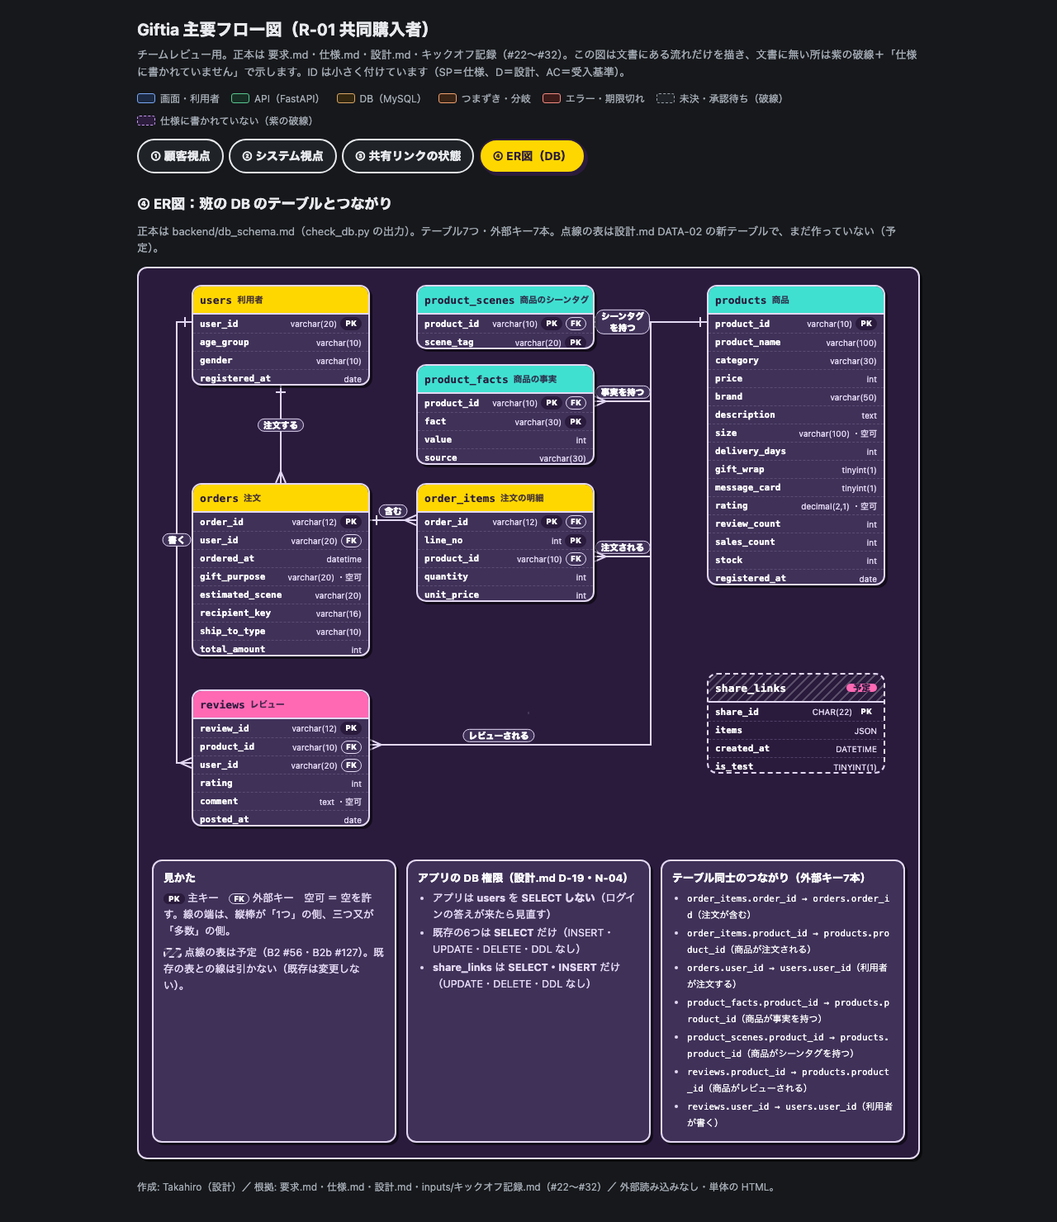
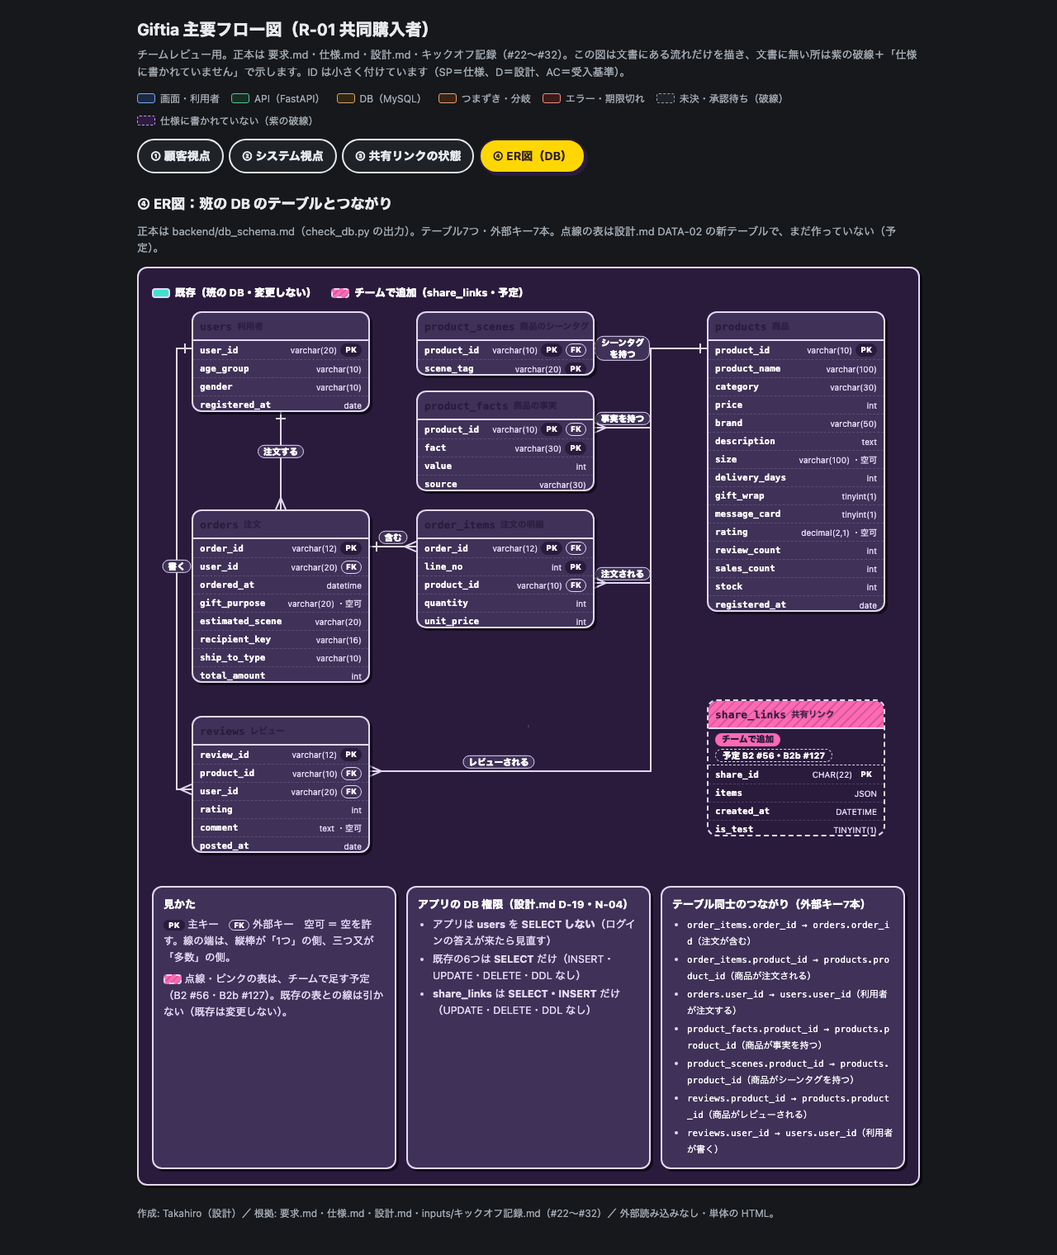
feat: ER図で「チームで追加」を区別し、ハブの紙芝居の行を消す

Changed region(s): [[0.125, 0.0, 0.875, 0.8081], [0.125, 0.5284, 0.875, 0.9946], [0.4062, 0.6838, 0.5938, 0.8081]]

diff --git a/docs/mock/diagrams/giftia-ui-renewal/flows.html b/docs/mock/diagrams/giftia-ui-renewal/flows.html
@@ -98,11 +98,11 @@ th{background:var(--card)}
 .tb h4{margin:0;height:34px;display:flex;align-items:center;gap:6px;padding:0 8px;border-bottom:2px solid var(--ew-line);color:#2A1B3D;font-size:13px;line-height:1}
 .tb h4 b{font-family:ui-monospace,Consolas,monospace;font-size:13px}
 .tb h4 small{font-size:10.5px;font-weight:700;color:#2A1B3D;opacity:.85;white-space:nowrap}
-.tb.g1 h4{background:var(--m1)}.tb.g2 h4{background:var(--m2)}.tb.g3 h4{background:var(--m3)}
+
 .tb.gp{border-style:dashed;background:transparent;box-shadow:none}
-.tb.gp h4{background:repeating-linear-gradient(135deg,transparent 0 6px,var(--ew-stripe) 6px 8px);color:var(--ew-ink)}
-.tb.gp h4 small{color:var(--ew-ink)}
-.tb .st{margin-left:auto;font-size:10.5px;font-weight:800;padding:0 8px;border-radius:999px;background:var(--m3);color:#2A1B3D}
+.tb.gp h4{background:repeating-linear-gradient(135deg,transparent 0 6px,rgba(42,27,61,.2) 6px 8px),var(--m3);color:#2A1B3D}
+.tb.gp .band{display:flex;flex-direction:column;align-items:flex-start;gap:3px;height:44px;padding:5px 8px;border-bottom:1.5px dashed var(--ew-line)}
+.tb .st{font-size:10.5px;font-weight:800;line-height:1.5;padding:0 8px;border-radius:999px;background:var(--m3);color:#2A1B3D;white-space:nowrap}.tb .st.st2{background:transparent;border:1.5px dashed var(--ew-line);color:var(--ew-ink);line-height:1.35}
 .tb ul{list-style:none;margin:0;padding:0}
 .tb li{display:flex;align-items:center;gap:4px;height:22px;padding:0 8px;font-size:11px;line-height:1;border-top:1px dashed rgba(127,110,150,.45)}
 .tb li:first-child{border-top:0}
@@ -119,7 +119,11 @@ th{background:var(--card)}
 .erc ul{margin:0;padding-left:18px;color:var(--ew-sub)}
 .erc li{margin:2px 0}
 .erc ul code{font-family:ui-monospace,Consolas,monospace;font-size:11px;color:var(--ew-ink);word-break:break-all}
-.sw2{display:inline-block;width:22px;height:12px;border:2px dashed var(--ew-line);border-radius:4px;vertical-align:-2px;background:repeating-linear-gradient(135deg,transparent 0 4px,var(--ew-stripe) 4px 6px)}
+.erlg{display:flex;flex-wrap:wrap;gap:6px 18px;margin:0 6px 12px;font-size:12.5px;font-weight:800}
+.erlg span{display:inline-flex;align-items:center;gap:6px}
+.sw2.ex{border:2px solid var(--ew-line);background:var(--m2)}
+.sw2:not(.ex){background:repeating-linear-gradient(135deg,transparent 0 4px,rgba(42,27,61,.2) 4px 6px),var(--m3)}
+.sw2{display:inline-block;width:22px;height:12px;border:2px dashed var(--ew-line);border-radius:4px;vertical-align:-2px}
 @media (max-width:959px){
   .erg{width:auto;height:auto;display:flex;flex-direction:column;gap:14px}
   .erl,.pl{display:none}
@@ -392,11 +396,12 @@ th{background:var(--card)}
   <h2>④ ER図：班の DB のテーブルとつながり</h2>
   <p class="lead">正本は backend/db_schema.md（check_db.py の出力）。テーブル7つ・外部キー7本。点線の表は設計.md DATA-02 の新テーブルで、まだ作っていない（予定）。</p>
   <div class="erwrap">
-    <div class="erg"><svg class="erl" width="880" height="680" viewBox="0 0 880 680" aria-hidden="true"><defs><marker id="erone" markerUnits="userSpaceOnUse" markerWidth="14" markerHeight="14" refX="0" refY="7" orient="auto"><path class="ml" d="M8 1V13"/></marker><marker id="ercrow" markerUnits="userSpaceOnUse" markerWidth="14" markerHeight="14" refX="14" refY="7" orient="auto"><path class="ml" d="M0 7L14 1M0 7H14M0 7L14 13"/></marker></defs><path class="ln" d="M140 122 V240" marker-start="url(#erone)" marker-end="url(#ercrow)"/><path class="ln" d="M248 285 H304" marker-start="url(#erone)" marker-end="url(#ercrow)"/><path class="ln" d="M656 45 H588 V329 H520" marker-start="url(#erone)" marker-end="url(#ercrow)"/><path class="ln" d="M656 45 H520" marker-start="url(#erone)" marker-end="url(#ercrow)"/><path class="ln" d="M656 45 H588 V141 H520" marker-start="url(#erone)" marker-end="url(#ercrow)"/><path class="ln" d="M656 45 H588 V557 H248" marker-start="url(#erone)" marker-end="url(#ercrow)"/><path class="ln" d="M32 45 H14 V579 H32" marker-start="url(#erone)" marker-end="url(#ercrow)"/></svg><span class="pl" style="left:140px;top:181px">注文する</span><span class="pl" style="left:276px;top:285px">含む</span><span class="pl" style="left:554px;top:329px">注文される</span><span class="pl" style="left:554px;top:45px">シーンタグ<br>を持つ</span><span class="pl" style="left:554px;top:141px">事実を持つ</span><span class="pl" style="left:404px;top:557px">レビューされる</span><span class="pl" style="left:14px;top:320px">書く</span><div class="tb g1" style="left:32px;top:0px;height:122px"><h4><b>users</b><small>利用者</small></h4><ul><li><code>user_id</code><i>varchar(20)</i><em class="k pk">PK</em></li><li><code>age_group</code><i>varchar(10)</i></li><li><code>gender</code><i>varchar(10)</i></li><li><code>registered_at</code><i>date</i></li></ul></div><div class="tb g1" style="left:32px;top:240px;height:210px"><h4><b>orders</b><small>注文</small></h4><ul><li><code>order_id</code><i>varchar(12)</i><em class="k pk">PK</em></li><li><code>user_id</code><i>varchar(20)</i><em class="k fk">FK</em></li><li><code>ordered_at</code><i>datetime</i></li><li><code>gift_purpose</code><i>varchar(20) ・空可</i></li><li><code>estimated_scene</code><i>varchar(20)</i></li><li><code>recipient_key</code><i>varchar(16)</i></li><li><code>ship_to_type</code><i>varchar(10)</i></li><li><code>total_amount</code><i>int</i></li></ul><p class="fkm">FK: orders.user_id → users.user_id</p></div><div class="tb g1" style="left:304px;top:240px;height:144px"><h4><b>order_items</b><small>注文の明細</small></h4><ul><li><code>order_id</code><i>varchar(12)</i><em class="k pk">PK</em><em class="k fk">FK</em></li><li><code>line_no</code><i>int</i><em class="k pk">PK</em></li><li><code>product_id</code><i>varchar(10)</i><em class="k fk">FK</em></li><li><code>quantity</code><i>int</i></li><li><code>unit_price</code><i>int</i></li></ul><p class="fkm">FK: order_items.order_id → orders.order_id ／ order_items.product_id → products.product_id</p></div><div class="tb g2" style="left:656px;top:0px;height:364px"><h4><b>products</b><small>商品</small></h4><ul><li><code>product_id</code><i>varchar(10)</i><em class="k pk">PK</em></li><li><code>product_name</code><i>varchar(100)</i></li><li><code>category</code><i>varchar(30)</i></li><li><code>price</code><i>int</i></li><li><code>brand</code><i>varchar(50)</i></li><li><code>description</code><i>text</i></li><li><code>size</code><i>varchar(100) ・空可</i></li><li><code>delivery_days</code><i>int</i></li><li><code>gift_wrap</code><i>tinyint(1)</i></li><li><code>message_card</code><i>tinyint(1)</i></li><li><code>rating</code><i>decimal(2,1) ・空可</i></li><li><code>review_count</code><i>int</i></li><li><code>sales_count</code><i>int</i></li><li><code>stock</code><i>int</i></li><li><code>registered_at</code><i>date</i></li></ul></div><div class="tb g2" style="left:304px;top:0px;height:78px"><h4><b>product_scenes</b><small>商品のシーンタグ</small></h4><ul><li><code>product_id</code><i>varchar(10)</i><em class="k pk">PK</em><em class="k fk">FK</em></li><li><code>scene_tag</code><i>varchar(20)</i><em class="k pk">PK</em></li></ul><p class="fkm">FK: product_scenes.product_id → products.product_id</p></div><div class="tb g2" style="left:304px;top:96px;height:122px"><h4><b>product_facts</b><small>商品の事実</small></h4><ul><li><code>product_id</code><i>varchar(10)</i><em class="k pk">PK</em><em class="k fk">FK</em></li><li><code>fact</code><i>varchar(30)</i><em class="k pk">PK</em></li><li><code>value</code><i>int</i></li><li><code>source</code><i>varchar(30)</i></li></ul><p class="fkm">FK: product_facts.product_id → products.product_id</p></div><div class="tb g3" style="left:32px;top:490px;height:166px"><h4><b>reviews</b><small>レビュー</small></h4><ul><li><code>review_id</code><i>varchar(12)</i><em class="k pk">PK</em></li><li><code>product_id</code><i>varchar(10)</i><em class="k fk">FK</em></li><li><code>user_id</code><i>varchar(20)</i><em class="k fk">FK</em></li><li><code>rating</code><i>int</i></li><li><code>comment</code><i>text ・空可</i></li><li><code>posted_at</code><i>date</i></li></ul><p class="fkm">FK: reviews.product_id → products.product_id ／ reviews.user_id → users.user_id</p></div><div class="tb gp" style="left:656px;top:470px;height:122px"><h4><b>share_links</b><span class="st">予定</span></h4><ul><li><code>share_id</code><i>CHAR(22)</i><em class="k pk">PK</em></li><li><code>items</code><i>JSON</i></li><li><code>created_at</code><i>DATETIME</i></li><li><code>is_test</code><i>TINYINT(1)</i></li></ul><p class="fkm">予定の表。既存の表との線は引かない（既存は変更しない）。</p></div></div>
+    <div class="erlg" aria-label="凡例"><span><i class="sw2 ex"></i>既存（班の DB・変更しない）</span><span><i class="sw2"></i>チームで追加（share_links・予定）</span></div>
+    <div class="erg"><svg class="erl" width="880" height="680" viewBox="0 0 880 680" aria-hidden="true"><defs><marker id="erone" markerUnits="userSpaceOnUse" markerWidth="14" markerHeight="14" refX="0" refY="7" orient="auto"><path class="ml" d="M8 1V13"/></marker><marker id="ercrow" markerUnits="userSpaceOnUse" markerWidth="14" markerHeight="14" refX="14" refY="7" orient="auto"><path class="ml" d="M0 7L14 1M0 7H14M0 7L14 13"/></marker></defs><path class="ln" d="M140 122 V240" marker-start="url(#erone)" marker-end="url(#ercrow)"/><path class="ln" d="M248 285 H304" marker-start="url(#erone)" marker-end="url(#ercrow)"/><path class="ln" d="M656 45 H588 V329 H520" marker-start="url(#erone)" marker-end="url(#ercrow)"/><path class="ln" d="M656 45 H520" marker-start="url(#erone)" marker-end="url(#ercrow)"/><path class="ln" d="M656 45 H588 V141 H520" marker-start="url(#erone)" marker-end="url(#ercrow)"/><path class="ln" d="M656 45 H588 V557 H248" marker-start="url(#erone)" marker-end="url(#ercrow)"/><path class="ln" d="M32 45 H14 V579 H32" marker-start="url(#erone)" marker-end="url(#ercrow)"/></svg><span class="pl" style="left:140px;top:181px">注文する</span><span class="pl" style="left:276px;top:285px">含む</span><span class="pl" style="left:554px;top:329px">注文される</span><span class="pl" style="left:554px;top:45px">シーンタグ<br>を持つ</span><span class="pl" style="left:554px;top:141px">事実を持つ</span><span class="pl" style="left:404px;top:557px">レビューされる</span><span class="pl" style="left:14px;top:320px">書く</span><div class="tb g1" style="left:32px;top:0px;height:122px"><h4><b>users</b><small>利用者</small></h4><ul><li><code>user_id</code><i>varchar(20)</i><em class="k pk">PK</em></li><li><code>age_group</code><i>varchar(10)</i></li><li><code>gender</code><i>varchar(10)</i></li><li><code>registered_at</code><i>date</i></li></ul></div><div class="tb g1" style="left:32px;top:240px;height:210px"><h4><b>orders</b><small>注文</small></h4><ul><li><code>order_id</code><i>varchar(12)</i><em class="k pk">PK</em></li><li><code>user_id</code><i>varchar(20)</i><em class="k fk">FK</em></li><li><code>ordered_at</code><i>datetime</i></li><li><code>gift_purpose</code><i>varchar(20) ・空可</i></li><li><code>estimated_scene</code><i>varchar(20)</i></li><li><code>recipient_key</code><i>varchar(16)</i></li><li><code>ship_to_type</code><i>varchar(10)</i></li><li><code>total_amount</code><i>int</i></li></ul><p class="fkm">FK: orders.user_id → users.user_id</p></div><div class="tb g1" style="left:304px;top:240px;height:144px"><h4><b>order_items</b><small>注文の明細</small></h4><ul><li><code>order_id</code><i>varchar(12)</i><em class="k pk">PK</em><em class="k fk">FK</em></li><li><code>line_no</code><i>int</i><em class="k pk">PK</em></li><li><code>product_id</code><i>varchar(10)</i><em class="k fk">FK</em></li><li><code>quantity</code><i>int</i></li><li><code>unit_price</code><i>int</i></li></ul><p class="fkm">FK: order_items.order_id → orders.order_id ／ order_items.product_id → products.product_id</p></div><div class="tb g2" style="left:656px;top:0px;height:364px"><h4><b>products</b><small>商品</small></h4><ul><li><code>product_id</code><i>varchar(10)</i><em class="k pk">PK</em></li><li><code>product_name</code><i>varchar(100)</i></li><li><code>category</code><i>varchar(30)</i></li><li><code>price</code><i>int</i></li><li><code>brand</code><i>varchar(50)</i></li><li><code>description</code><i>text</i></li><li><code>size</code><i>varchar(100) ・空可</i></li><li><code>delivery_days</code><i>int</i></li><li><code>gift_wrap</code><i>tinyint(1)</i></li><li><code>message_card</code><i>tinyint(1)</i></li><li><code>rating</code><i>decimal(2,1) ・空可</i></li><li><code>review_count</code><i>int</i></li><li><code>sales_count</code><i>int</i></li><li><code>stock</code><i>int</i></li><li><code>registered_at</code><i>date</i></li></ul></div><div class="tb g2" style="left:304px;top:0px;height:78px"><h4><b>product_scenes</b><small>商品のシーンタグ</small></h4><ul><li><code>product_id</code><i>varchar(10)</i><em class="k pk">PK</em><em class="k fk">FK</em></li><li><code>scene_tag</code><i>varchar(20)</i><em class="k pk">PK</em></li></ul><p class="fkm">FK: product_scenes.product_id → products.product_id</p></div><div class="tb g2" style="left:304px;top:96px;height:122px"><h4><b>product_facts</b><small>商品の事実</small></h4><ul><li><code>product_id</code><i>varchar(10)</i><em class="k pk">PK</em><em class="k fk">FK</em></li><li><code>fact</code><i>varchar(30)</i><em class="k pk">PK</em></li><li><code>value</code><i>int</i></li><li><code>source</code><i>varchar(30)</i></li></ul><p class="fkm">FK: product_facts.product_id → products.product_id</p></div><div class="tb g3" style="left:32px;top:490px;height:166px"><h4><b>reviews</b><small>レビュー</small></h4><ul><li><code>review_id</code><i>varchar(12)</i><em class="k pk">PK</em></li><li><code>product_id</code><i>varchar(10)</i><em class="k fk">FK</em></li><li><code>user_id</code><i>varchar(20)</i><em class="k fk">FK</em></li><li><code>rating</code><i>int</i></li><li><code>comment</code><i>text ・空可</i></li><li><code>posted_at</code><i>date</i></li></ul><p class="fkm">FK: reviews.product_id → products.product_id ／ reviews.user_id → users.user_id</p></div><div class="tb gp" style="left:656px;top:470px;height:166px"><h4><b>share_links</b><small>共有リンク</small></h4><div class="band"><span class="st">チームで追加</span><span class="st st2">予定 B2 #56・B2b #127</span></div><ul><li><code>share_id</code><i>CHAR(22)</i><em class="k pk">PK</em></li><li><code>items</code><i>JSON</i></li><li><code>created_at</code><i>DATETIME</i></li><li><code>is_test</code><i>TINYINT(1)</i></li></ul><p class="fkm">予定の表。既存の表との線は引かない（既存は変更しない）。</p></div></div>
     <div class="erk">
       <div class="erc"><h5>見かた</h5>
         <p><em class="k pk">PK</em> 主キー　<em class="k fk">FK</em> 外部キー　空可 ＝ 空を許す。線の端は、縦棒が「1つ」の側、三つ又が「多数」の側。</p>
-        <p><span class="sw2"></span> 点線の表は予定（B2 #56・B2b #127）。既存の表との線は引かない（既存は変更しない）。</p>
+        <p><span class="sw2"></span> 点線・ピンクの表は、チームで足す予定（B2 #56・B2b #127）。既存の表との線は引かない（既存は変更しない）。</p>
       </div>
       <div class="erc"><h5>アプリの DB 権限（設計.md D-19・N-04）</h5>
         <ul><li>アプリは <b>users</b> を <b>SELECT しない</b>（ログインの答えが来たら見直す）</li>

diff --git a/docs/hub.html b/docs/hub.html
@@ -115,7 +115,7 @@ a:not(.btn):hover,a:not(.btn):focus-visible{text-decoration-thickness:3px}
 <ol class="stages"><li class="stg"><b>STAGE 1</b><small>W1</small></li><li class="stg"><b>STAGE 2</b><small>W2</small></li><li class="stg"><b>STAGE 3</b><small>W3</small></li><li class="stg"><b>STAGE 4</b><small>W4</small></li></ol>
 </div></header>
 <main class="wrap">
-<section class="sec "><h2><span aria-hidden="true">📅</span>毎日<span class="mk" aria-hidden="true"><i></i><i></i><i></i></span></h2><div class="grid"><div class="card pl-card"><h3>開発の全体像</h3><p class="pl">🎁 予算とシーンで候補を出し、仲間に共有リンクで送る</p><ol class="mp" aria-label="段"><li>5文書</li><li>実装①</li><li>実装②</li><li>評価・受入</li><li>発表</li></ol><p class="cd"><span id="cd-end"></span><span id="cd-next"></span></p><p class="l3">🖥画面 → ⚙API → 🗄DB</p><div class="go"><a class="btn" href="overview.html">開く →</a></div></div><div class="card pl-card"><h3>進捗ダッシュボード</h3><p>📊 担当者ごとの完了数・遅れ・期限が近い Issue を、Issue から自動で見る</p><p>👤 名前ボタンで自分だけに絞れる</p><div id="ps" hidden></div><div class="go"><a class="btn" href="progress.html">開く →</a></div></div><div class="card pl-card"><h3>GitHub</h3><ul class="ms" aria-label="GitHub"><li><a target="_blank" rel="noopener" href="https://github.com/Team18-RaizenYomiMukuro-Tech0/model_team18_tech0/issues?q=is%3Aopen+assignee%3A%40me"><b aria-hidden="true">📋</b>自分の担当 Issue<span class="xl" aria-hidden="true">↗</span><span class="vh">（別タブで開く）</span><time>→</time></a></li><li><a target="_blank" rel="noopener" href="https://github.com/Team18-RaizenYomiMukuro-Tech0/model_team18_tech0/pulls?q=is%3Apr+is%3Aopen+review-requested%3A%40me"><b aria-hidden="true">👀</b>レビュー待ちの PR<span class="xl" aria-hidden="true">↗</span><span class="vh">（別タブで開く）</span><time>→</time></a></li></ul><h3 class="sh">モック・図</h3><ul class="ms off" aria-label="モック・図"><li><b aria-hidden="true">📽</b>紙芝居<span class="st-pre">準備中</span><small>要件が固まったら</small></li><li class="on"><b aria-hidden="true">🕹</b><a href="mock/clickable/giftia-ui-renewal/mock.html">クリックで動くモック</a></li><li class="on"><b aria-hidden="true">🗺</b><a href="mock/diagrams/giftia-ui-renewal/flows.html">図（主要フロー）</a></li></ul><p class="rl"><a target="_blank" rel="noopener" href="https://github.com/Team18-RaizenYomiMukuro-Tech0/model_team18_tech0/blob/main/docs/mock/README.md">置き場のルール: docs/mock/README.md<span class="xl" aria-hidden="true">↗</span><span class="vh">（別タブで開く）</span></a></p></div></div></section>
+<section class="sec "><h2><span aria-hidden="true">📅</span>毎日<span class="mk" aria-hidden="true"><i></i><i></i><i></i></span></h2><div class="grid"><div class="card pl-card"><h3>開発の全体像</h3><p class="pl">🎁 予算とシーンで候補を出し、仲間に共有リンクで送る</p><ol class="mp" aria-label="段"><li>5文書</li><li>実装①</li><li>実装②</li><li>評価・受入</li><li>発表</li></ol><p class="cd"><span id="cd-end"></span><span id="cd-next"></span></p><p class="l3">🖥画面 → ⚙API → 🗄DB</p><div class="go"><a class="btn" href="overview.html">開く →</a></div></div><div class="card pl-card"><h3>進捗ダッシュボード</h3><p>📊 担当者ごとの完了数・遅れ・期限が近い Issue を、Issue から自動で見る</p><p>👤 名前ボタンで自分だけに絞れる</p><div id="ps" hidden></div><div class="go"><a class="btn" href="progress.html">開く →</a></div></div><div class="card pl-card"><h3>GitHub</h3><ul class="ms" aria-label="GitHub"><li><a target="_blank" rel="noopener" href="https://github.com/Team18-RaizenYomiMukuro-Tech0/model_team18_tech0/issues?q=is%3Aopen+assignee%3A%40me"><b aria-hidden="true">📋</b>自分の担当 Issue<span class="xl" aria-hidden="true">↗</span><span class="vh">（別タブで開く）</span><time>→</time></a></li><li><a target="_blank" rel="noopener" href="https://github.com/Team18-RaizenYomiMukuro-Tech0/model_team18_tech0/pulls?q=is%3Apr+is%3Aopen+review-requested%3A%40me"><b aria-hidden="true">👀</b>レビュー待ちの PR<span class="xl" aria-hidden="true">↗</span><span class="vh">（別タブで開く）</span><time>→</time></a></li></ul><h3 class="sh">モック・図</h3><ul class="ms off" aria-label="モック・図"><li class="on"><b aria-hidden="true">🕹</b><a href="mock/clickable/giftia-ui-renewal/mock.html">クリックで動くモック</a></li><li class="on"><b aria-hidden="true">🗺</b><a href="mock/diagrams/giftia-ui-renewal/flows.html">図（主要フロー）</a></li></ul><p class="rl"><a target="_blank" rel="noopener" href="https://github.com/Team18-RaizenYomiMukuro-Tech0/model_team18_tech0/blob/main/docs/mock/README.md">置き場のルール: docs/mock/README.md<span class="xl" aria-hidden="true">↗</span><span class="vh">（別タブで開く）</span></a></p></div></div></section>
 <section class="sec "><div class="sechead"><h2><span aria-hidden="true">📚</span>節目で開く<span class="mk" aria-hidden="true"><i></i><i></i><i></i></span></h2><a class="btn accent" href="docs5/index.html">5文書の一覧 →</a><span class="note" style="margin:0">要求 → 要件 → 仕様 → 設計 → テスト設計の順。Giftia UI/UX リニューアルの5文書。HTML はビルド時に生成し、版（コミット ID）は各ページの下に出る</span></div><div class="grid"><div class="card"><h3>① 要求</h3><span class="badge">確定前</span><div class="go"><a class="btn" href="docs5/giftia-ui-renewal/youkyu.html">開く →</a></div></div><div class="card"><h3>② 要件</h3><span class="badge">確定前</span><div class="go"><a class="btn" href="docs5/giftia-ui-renewal/youken.html">開く →</a></div></div><div class="card"><h3>③ 仕様</h3><span class="badge">確定前</span><div class="go"><a class="btn" href="docs5/giftia-ui-renewal/shiyou.html">開く →</a></div></div><div class="card"><h3>④ 設計</h3><span class="badge">確定前</span><div class="go"><a class="btn" href="docs5/giftia-ui-renewal/sekkei.html">開く →</a></div></div><div class="card"><h3>⑤ テスト設計</h3><span class="badge">確定前</span><div class="go"><a class="btn" href="docs5/giftia-ui-renewal/test.html">開く →</a></div></div></div></section>
 <section class="sec "><h2><span aria-hidden="true">🚀</span>最初だけ<span class="mk" aria-hidden="true"><i></i><i></i><i></i></span></h2><div class="grid"><div class="card"><h3>Munder Difflin のセットアップ</h3><p>手を動かして自分の PC に環境を作る（約32分）</p><div class="go"><a class="btn accent" href="setup.html">セットアップを始める →</a></div></div><div class="card"><h3>開発の仕組み（講義）</h3><p>この開発のやり方を読んで理解する（約45分）</p><div class="go"><a class="btn accent" href="kb/dev-system.html">講義を読む →</a></div></div><div class="card"><h3>オプション：定期実行</h3><p>週1要約・AI レビューを自動で回す（Mac / Windows）</p><div class="go"><a class="btn" href="setup.html#c6-mac">Mac の手順 →</a><a class="btn" href="setup.html#c6-win">Windows の手順 →</a></div></div></div></section>
 <section class="sec "><h2><span aria-hidden="true">💡</span>ナレッジ<span class="mk" aria-hidden="true"><i></i><i></i><i></i></span></h2><div class="grid"><div class="card"><h3>ルール・運用</h3><p>作業の決まりと、Issue・PR の書き方</p><div class="go"><a target="_blank" rel="noopener" class="btn" href="https://github.com/Team18-RaizenYomiMukuro-Tech0/model_team18_tech0/blob/main/00_ルール/作業ルール.md">作業ルール<span class="xl" aria-hidden="true">↗</span><span class="vh">（別タブで開く）</span></a><a target="_blank" rel="noopener" class="btn" href="https://github.com/Team18-RaizenYomiMukuro-Tech0/model_team18_tech0/blob/main/00_ルール/開発フロー.md">開発フロー<span class="xl" aria-hidden="true">↗</span><span class="vh">（別タブで開く）</span></a><a target="_blank" rel="noopener" class="btn" href="https://github.com/Team18-RaizenYomiMukuro-Tech0/model_team18_tech0/blob/main/00_ルール/Issue作成規定.md">Issue作成規定<span class="xl" aria-hidden="true">↗</span><span class="vh">（別タブで開く）</span></a><a target="_blank" rel="noopener" class="btn" href="https://github.com/Team18-RaizenYomiMukuro-Tech0/model_team18_tech0/blob/main/00_ルール/PRレビュー規定.md">PRレビュー規定<span class="xl" aria-hidden="true">↗</span><span class="vh">（別タブで開く）</span></a></div></div><div class="card"><h3>ナレッジ</h3><p>学びと決定の記録</p><div class="go"><a target="_blank" rel="noopener" class="btn" href="https://github.com/Team18-RaizenYomiMukuro-Tech0/model_team18_tech0/blob/main/01_ナレッジ/index.md">ナレッジ一覧<span class="xl" aria-hidden="true">↗</span><span class="vh">（別タブで開く）</span></a><a target="_blank" rel="noopener" class="btn" href="https://github.com/Team18-RaizenYomiMukuro-Tech0/model_team18_tech0/blob/main/01_ナレッジ/README.md">README<span class="xl" aria-hidden="true">↗</span><span class="vh">（別タブで開く）</span></a><a class="btn" href="kb/dev-system.html">講義（開発の仕組み）</a></div></div></div></section>
